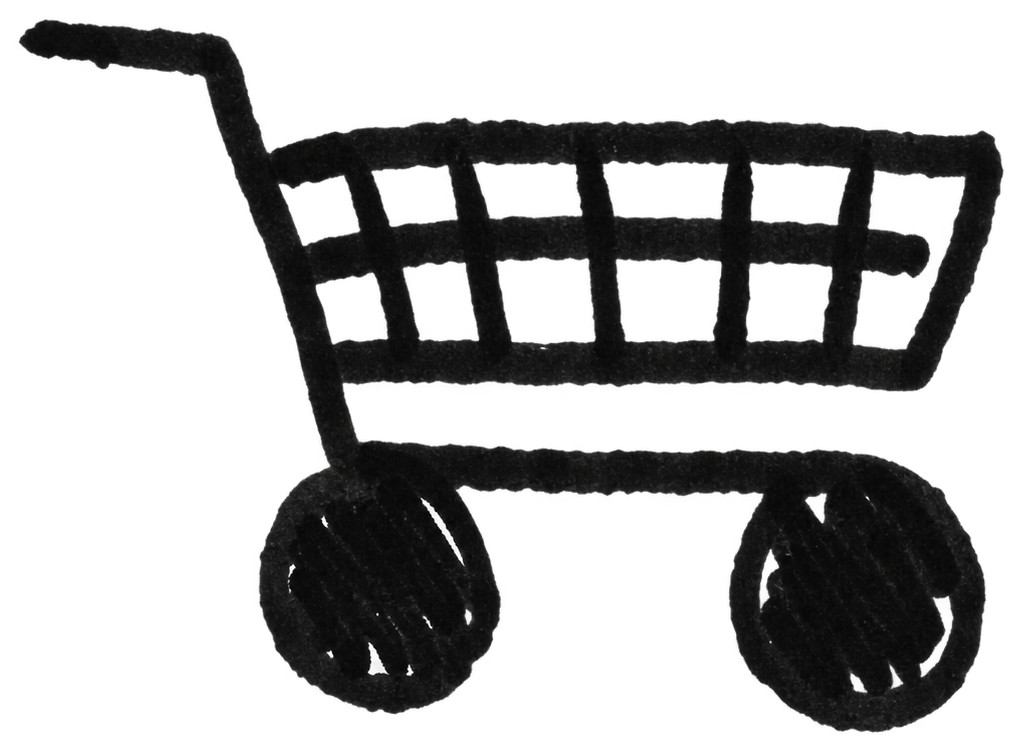
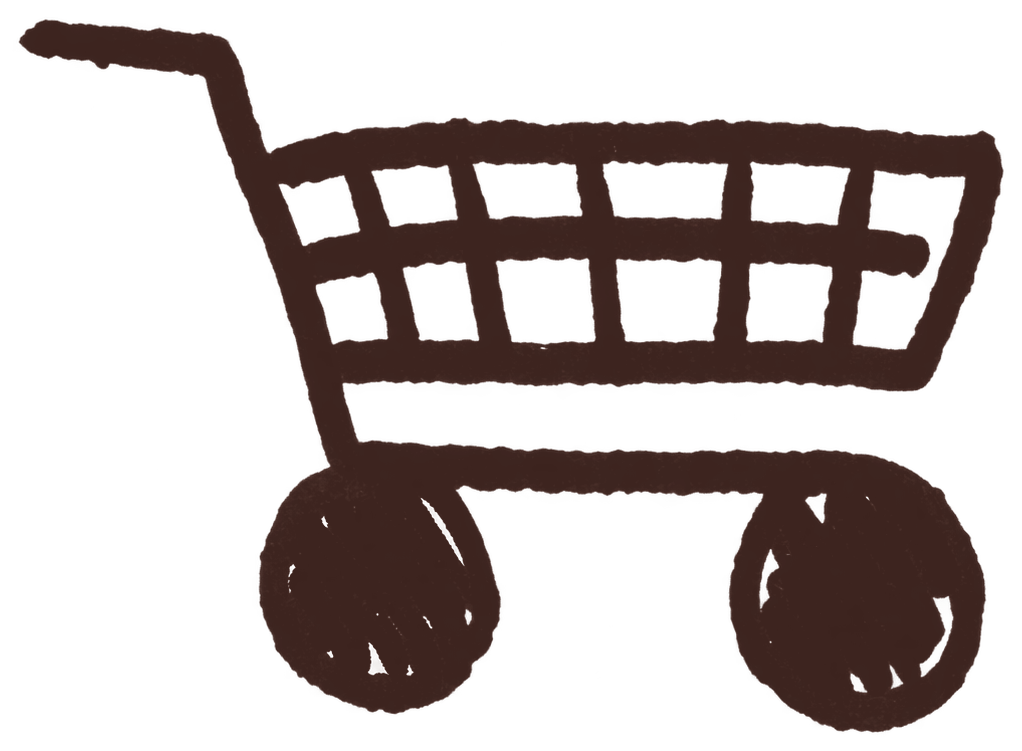
Align header and publish responsive refinements

diff --git a/index.html b/index.html
@@ -146,12 +146,12 @@
     a:focus-visible,button:focus-visible { outline:2px solid currentColor; outline-offset:6px; }
     .homepage { position:relative; height:calc(100svh - var(--announcement-height) - var(--header-height)); min-height:calc(560px - var(--announcement-height) - var(--header-height)); overflow:hidden; }
     .hero-image { position:absolute; top:0; right:0; left:50%; width:50%; height:100%; object-fit:cover; object-position:center; }
-    .announcement-bar { position:relative; z-index:4; display:grid; place-items:center; height:var(--announcement-height); padding:4px 12px; overflow:hidden; background:var(--announcement-background); color:var(--announcement-foreground); font-family:var(--font-body); font-size:clamp(11px,.8vw,13px); font-weight:500; letter-spacing:.16em; line-height:1; text-align:center; text-transform:uppercase; white-space:nowrap; }
-    .header { position:sticky; z-index:20; top:0; width:100%; display:grid; grid-template-columns:1fr auto; align-items:center; height:var(--header-height); padding:0 4%; background:var(--header-background); color:var(--header-foreground); font-size:clamp(12px,1vw,15px); font-weight:500; line-height:1; }
+    .announcement-bar { position:relative; z-index:4; display:grid; place-items:center; height:var(--announcement-height); padding:4px 12px; overflow:hidden; background:var(--announcement-background); color:var(--announcement-foreground); font-family:var(--font-body); font-size:clamp(11px,.8vw,13px); font-weight:500; letter-spacing:.16em; line-height:1; text-align:center; white-space:nowrap; }
+    .header { position:sticky; z-index:20; top:0; width:100%; display:grid; grid-template-columns:minmax(0,1fr) auto minmax(0,1fr); align-items:center; height:var(--header-height); padding:0 4%; background:var(--header-background); color:var(--header-foreground); font-size:clamp(12px,1vw,15px); font-weight:500; line-height:1; }
     .navigation { width:auto; display:flex; }
     .navigation a { letter-spacing:.12em; text-transform:uppercase; }
-    .header-brand { font-family:var(--font-display); font-size:clamp(22px,1.85vw,29px); font-weight:600; letter-spacing:.08em; text-align:left; text-transform:uppercase; }
-    .header > #cart-link { position:relative; justify-self:end; display:inline-flex; align-items:center; color:inherit; }
+    .header-brand { grid-column:2; align-self:center; justify-self:center; font-family:var(--font-display); font-size:clamp(22px,1.85vw,29px); font-weight:600; letter-spacing:.08em; line-height:1; text-align:center; text-transform:uppercase; }
+    .header > #cart-link { position:relative; grid-column:3; align-self:center; justify-self:end; display:inline-flex; align-items:center; color:inherit; }
     .cart-icon { display:block; width:clamp(24px,1.75vw,28px); height:clamp(24px,1.75vw,28px); object-fit:contain; object-position:center; }
     .cart-count { position:absolute; top:-7px; right:-9px; display:grid; place-items:center; min-width:15px; height:15px; padding:0 3px; border:1px solid var(--header-background); border-radius:999px; background:var(--header-foreground); color:var(--announcement-foreground); font-family:var(--font-body); font-size:8px; font-weight:600; letter-spacing:0; line-height:1; }
     .header a { transition:opacity 180ms ease; }
@@ -195,7 +195,8 @@
     .option-choices { display:grid; grid-template-columns:repeat(3,1fr); gap:8px 14px; max-height:0; padding:0; overflow:hidden; opacity:0; transition:max-height 240ms ease, padding 240ms ease, opacity 180ms ease; }
     .choice { padding:0; border:0; background:none; color:var(--muted); font:inherit; font-size:10px; letter-spacing:.1em; text-align:left; text-transform:uppercase; cursor:pointer; }
     .order-choice { font-family:var(--font-display); text-align:center; }
-    .order-choice--with-plus { position:relative; display:inline-flex; align-items:baseline; justify-content:center; justify-self:center; gap:.22em; white-space:nowrap; }
+    .order-choice--with-plus { position:relative; display:inline-flex; align-items:center; justify-content:center; justify-self:center; white-space:nowrap; }
+    .order-choice-content { display:inline-flex; align-items:baseline; gap:.22em; white-space:nowrap; }
     .order-choice-plus { display:inline-block; flex:none; color:currentColor; font-family:"Goudy Bookletter 1911"; font-size:1em; font-weight:400; letter-spacing:0; line-height:1; text-decoration:none; }
     .choice.order-choice--with-plus:hover, .choice.order-choice--with-plus.is-selected { text-decoration:none; }
     .order-choice--with-plus::after { position:absolute; top:calc(50% + .68em); right:0; left:0; height:1px; background:var(--accent); content:""; opacity:0; pointer-events:none; }
@@ -366,10 +367,10 @@
       body { background:var(--page-gradient); }
       .homepage { position:relative; display:block; width:100%; max-width:none; height:calc(100svh - var(--announcement-height) - var(--header-height)); min-height:calc(620px - var(--announcement-height) - var(--header-height)); margin:0; padding:0; overflow:hidden; border-radius:0; background:transparent; box-shadow:none; }
       .announcement-bar { position:relative; right:auto; left:auto; z-index:4; display:grid; height:var(--announcement-height); font-size:clamp(13px,1.7vw,15px); letter-spacing:.1em; }
-      .header { position:sticky; top:0; right:auto; left:auto; z-index:20; display:flex; justify-content:center; width:100%; height:var(--header-height); align-items:center; padding:0 20px; border:0; background:var(--header-background); box-shadow:none; font-size:12px; }
+      .header { position:sticky; top:0; right:auto; left:auto; z-index:20; display:grid; grid-template-columns:minmax(0,1fr) auto minmax(0,1fr); width:100%; height:var(--header-height); align-items:center; padding:0 20px; border:0; background:var(--header-background); box-shadow:none; font-size:12px; }
       .navigation { width:auto; }
-      .header-brand { position:absolute; top:50%; left:50%; font-size:clamp(21px,3vw,26px); letter-spacing:.06em; transform:translate(-50%,-50%); }
-      .header > #cart-link { position:absolute; right:20px; }
+      .header-brand { position:static; font-size:clamp(21px,3vw,26px); letter-spacing:.06em; transform:none; }
+      .header > #cart-link { position:relative; right:auto; }
       .hero-left-image, .hero-detail-image { display:none; }
       .hero-image { position:absolute; top:0; right:0; bottom:0; left:0; z-index:1; display:block; width:100%; height:100%; object-fit:cover; object-position:center 64%; }
       .homepage::after { position:absolute; top:40%; right:0; bottom:0; left:0; z-index:2; content:""; pointer-events:none; background:linear-gradient(to bottom,transparent 0%,rgba(60,42,33,.08) 20%,rgba(60,42,33,.72) 100%); }
@@ -419,12 +420,12 @@
       /* The desktop landing page follows the mobile hero system; the product page remains desktop-first below it. */
       .homepage { position:relative; display:block; width:100%; height:calc(100svh - var(--announcement-height) - var(--header-height)); min-height:calc(680px - var(--announcement-height) - var(--header-height)); margin:0; padding:0; overflow:hidden; border-radius:0; background:transparent; box-shadow:none; }
       .announcement-bar { position:relative; right:auto; left:auto; z-index:4; height:var(--announcement-height); font-size:clamp(12px,.85vw,13px); letter-spacing:.16em; }
-      .header { position:sticky; top:0; right:auto; left:auto; z-index:20; display:flex; justify-content:center; width:100%; height:var(--header-height); padding:0 6%; border:0; background:var(--header-background); box-shadow:none; font-size:14px; }
-      .header-brand { position:absolute; top:50%; left:50%; font-size:clamp(25px,1.85vw,29px); letter-spacing:.06em; transform:translate(-50%,-50%); }
-      .header-left-nav { position:absolute; left:6%; display:flex; align-items:center; gap:22px; }
+      .header { position:sticky; top:0; right:auto; left:auto; z-index:20; display:grid; grid-template-columns:minmax(0,1fr) auto minmax(0,1fr); width:100%; height:var(--header-height); padding:0 6%; border:0; background:var(--header-background); box-shadow:none; font-size:14px; }
+      .header-brand { position:static; font-size:clamp(25px,1.85vw,29px); letter-spacing:.06em; transform:none; }
+      .header-left-nav { position:static; grid-column:1; align-self:center; justify-self:start; display:flex; align-items:center; gap:22px; }
       .header-left-nav > a:not(.header-faq-link) { display:none; }
       .header-faq-link { display:block; font-size:clamp(18px,1.3vw,20px); }
-      .header > #cart-link { position:absolute; right:6%; }
+      .header > #cart-link { position:relative; right:auto; }
       .cart-icon { width:clamp(26px,1.8vw,28px); height:clamp(26px,1.8vw,28px); }
       .cart-count { top:-7px; right:-10px; }
       .hero-left-image, .hero-detail-image { display:none; }
@@ -473,10 +474,10 @@
     }
     @media (max-width:1100px) {
       html, body { width:100%; max-width:100vw; overflow-x:clip; }
-      .header-left-nav { position:absolute; right:auto; left:20px; display:block; }
+      .header-left-nav { position:static; grid-column:1; align-self:center; justify-self:start; display:flex; align-items:center; }
       .header-left-nav > a:not(.header-faq-link) { display:none; }
       .header-faq-link { display:block; font-size:clamp(16px,2vw,18px); }
-      .header > #cart-link { position:absolute; right:20px; display:inline-flex; }
+      .header > #cart-link { position:relative; right:auto; display:inline-flex; }
       .cart-icon { width:clamp(24px,3vw,26px); height:clamp(24px,3vw,26px); }
       .cart-count { top:-7px; right:-9px; min-width:15px; height:15px; font-size:8px; }
       .brand-statement-strip { display:block; width:100%; height:54px; min-height:54px; padding:0; overflow:hidden; background:var(--walnut); color:var(--light); }
@@ -580,12 +581,17 @@
       .swatch:not(.is-selected) .swatch-label { color:rgba(60,42,33,.78); font-weight:500; }
       .configurator-heading { color:var(--brown); font-size:16px; line-height:1.3; }
       .option-label, .option-value { color:var(--brown); font-size:14px; font-weight:500; line-height:1.4; }
-      .option-row[data-option="order"] .option-choices { grid-template-columns:repeat(2,max-content); justify-content:center; gap:8px; }
+      .option-row[data-option="order"] .option-choices { grid-template-columns:repeat(2,max-content); align-content:center; align-items:center; justify-content:center; gap:clamp(10px,2.5vw,28px); height:72px; }
       .choice { min-height:46px; color:rgba(60,42,33,.76); font-size:14px; font-weight:500; line-height:1.3; }
-      .order-choice { font-size:clamp(15px,3.8vw,16px); letter-spacing:.02em; line-height:1.25; white-space:nowrap; }
-      .order-choice--with-plus::after { top:calc(50% + .75em); height:2px; }
+      .order-choice { position:relative; display:inline-flex; align-items:center; justify-content:center; justify-self:center; font-size:clamp(15px,3.8vw,16px); letter-spacing:.02em; line-height:1.25; text-decoration:none !important; white-space:nowrap; }
+      .order-choice::after { position:absolute; top:auto; right:0; bottom:5px; left:0; height:2px; background:var(--accent); content:""; opacity:0; pointer-events:none; }
+      .order-choice:hover::after, .order-choice.is-selected::after { opacity:1; }
       .choice.is-selected { color:var(--brown); font-weight:600; text-decoration-color:var(--brown); text-decoration-thickness:2px; text-underline-offset:7px; }
       .purchase-button { min-height:52px; font-size:16px; font-weight:600; letter-spacing:.085em; }
+      .purchase-row { margin-top:0; }
+      .purchase-action-group { grid-template-columns:auto auto; align-items:center; justify-content:space-between; gap:18px; }
+      .palette-panel { padding-bottom:48px; }
+      .palette-panel:not(.has-pictures) .purchase-row, .palette-panel.has-pictures .purchase-row { padding-top:12px; padding-bottom:24px; }
       .purchase-price { font-weight:600; }
       .purchase-error { font-size:14px; line-height:1.55; }
       .upload-heading, .upload-progress { font-size:14px; line-height:1.4; }
@@ -617,11 +623,11 @@
       .cart-action:not(.cart-action--primary) { min-height:44px; font-size:14px; }
     }
     @media (max-width:600px) {
-      .option-row[data-option="order"] .option-choices { grid-template-columns:max-content max-content; align-content:center; align-items:baseline; justify-content:center; gap:clamp(6px,2vw,10px); height:64px; }
-      .order-choice { position:relative; display:inline-flex; align-items:baseline; justify-content:center; justify-self:center; min-height:0; font-size:clamp(12px,3.45vw,14px); line-height:1.2; text-decoration:none !important; }
-      .order-choice::after { position:absolute; top:auto; right:0; bottom:-6px; left:0; height:2px; background:var(--accent); content:""; opacity:0; pointer-events:none; }
-      .order-choice:hover::after, .order-choice.is-selected::after { opacity:1; }
-      .order-choice--with-plus { gap:.2em; }
+      :root { --announcement-height:46px; }
+      .announcement-bar { padding:9px 12px; }
+      .option-row[data-option="order"] .option-choices { gap:clamp(18px,5vw,24px); height:64px; }
+      .order-choice { min-height:44px; font-size:clamp(11.75px,3.45vw,14px); line-height:1.2; }
+      .order-choice-content { gap:.2em; }
       .purchase-row { margin-top:0; padding:12px 0 20px; }
       .palette-panel { padding-bottom:32px; }
       .palette-panel:not(.has-pictures) .purchase-row, .palette-panel.has-pictures .purchase-row { padding-top:12px; padding-bottom:20px; }
@@ -635,7 +641,7 @@
   </style>
 </head>
 <body>
-  <div class="announcement-bar">Handmade Tasmanian oak frames</div>
+  <div class="announcement-bar">Handmade Tasmanian Oak Frames</div>
   <header class="header">
     <nav class="header-left-nav" aria-label="Primary navigation">
       <a class="header-faq-link" href="#faq-dialog" aria-label="Open FAQ" aria-haspopup="dialog">FAQ</a>
@@ -676,7 +682,7 @@
       </div>
       <div class="configurator" id="configurator" aria-hidden="true">
         <div class="option-row" data-option="order">
-          <div class="option-choices"><button class="choice order-choice is-selected" type="button" data-order-type="frame-only" data-choice="Frame Only" data-price="70" aria-pressed="true">Frame Only</button><button class="choice order-choice order-choice--with-plus" type="button" data-order-type="frame-plus-pictures" data-choice="Frame + 8 Pictures" data-price="90" aria-pressed="false" aria-label="Frame plus eight pictures"><span>Frame</span><span class="order-choice-plus" aria-hidden="true">+</span><span>Eight Pictures</span></button></div>
+          <div class="option-choices"><button class="choice order-choice is-selected" type="button" data-order-type="frame-only" data-choice="Frame Only" data-price="70" aria-pressed="true"><span class="order-choice-content"><span>Frame Only</span></span></button><button class="choice order-choice order-choice--with-plus" type="button" data-order-type="frame-plus-pictures" data-choice="Frame + 8 Pictures" data-price="90" aria-pressed="false" aria-label="Frame plus eight pictures"><span class="order-choice-content"><span>Frame</span><span class="order-choice-plus" aria-hidden="true">+</span><span>Eight Pictures</span></span></button></div>
         </div>
         <div class="upload-section" id="upload-section" hidden aria-hidden="true">
           <p class="upload-heading"><button class="reset-images-button" id="reset-images" type="button" hidden>Reset Images</button><span class="upload-progress" id="upload-progress">0 / 8 Added</span></p>
